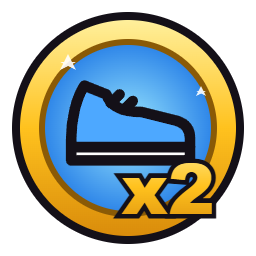
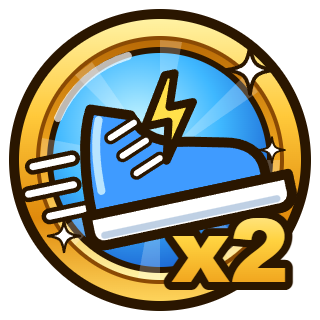
Shop: game passes with detailed coin badges and burst cards
New pass badges: a bevelled gold coin, coloured inner disc with rays, a big
detailed object breaking out (sneaker with bolt, banded cash stack, clover,
jewelled crown), sparkles and a gold x2. Cards get a colour wash with rays
behind the badge, a bold shadowed title, a two-line description and a lime
price button; VIP is a rainbow card. Sources: assets/ui/pass-badges-src.html
and pass-cards-src.html.

diff --git a/assets/ui/pass-badges-src.html b/assets/ui/pass-badges-src.html
@@ -1,0 +1,117 @@
+<!doctype html>
+<html><head><meta charset="utf-8"><title>Game pass badges</title>
+<!-- Source for the game-pass badges (assets/ui/Pass*.png, 320 px). Render one with ?i=<Name>.
+     Style from Steal An Egg / Break and Steal an Egg: thick bevelled gold coin, coloured inner disc with rays,
+     a big detailed object breaking out of the coin, white sparkles and a gold "x2" with a heavy outline. -->
+<style>
+html,body{margin:0;background:transparent}
+body.sheet{display:flex;flex-wrap:wrap;gap:20px;padding:20px;background:#2F2F36}
+svg{display:block}
+body.one svg:not(.defs){display:none}
+body.one svg.show{display:block}
+</style></head>
+<body class="sheet">
+<svg class="defs" width="0" height="0" style="position:absolute">
+<defs>
+<linearGradient id="rim" x1="0" y1="0" x2="0" y2="1"><stop offset="0" stop-color="#FFF4A8"/><stop offset=".35" stop-color="#FFC93A"/><stop offset=".7" stop-color="#E08A0C"/><stop offset="1" stop-color="#FFD860"/></linearGradient>
+<linearGradient id="rimIn" x1="0" y1="1" x2="0" y2="0"><stop offset="0" stop-color="#FFF4A8"/><stop offset=".5" stop-color="#F2A81E"/><stop offset="1" stop-color="#B86A06"/></linearGradient>
+<linearGradient id="goldText" x1="0" y1="0" x2="0" y2="1"><stop offset="0" stop-color="#FFFBD0"/><stop offset=".45" stop-color="#FFD23F"/><stop offset="1" stop-color="#E88A0A"/></linearGradient>
+<radialGradient id="dSpeed" cx=".4" cy=".35" r=".75"><stop offset="0" stop-color="#C8F6FF"/><stop offset=".5" stop-color="#3FB8FF"/><stop offset="1" stop-color="#1250C8"/></radialGradient>
+<radialGradient id="dCash" cx=".4" cy=".35" r=".75"><stop offset="0" stop-color="#E9FFB8"/><stop offset=".5" stop-color="#4CD64A"/><stop offset="1" stop-color="#127A2A"/></radialGradient>
+<radialGradient id="dLuck" cx=".4" cy=".35" r=".75"><stop offset="0" stop-color="#FFF6C0"/><stop offset=".5" stop-color="#FFB63A"/><stop offset="1" stop-color="#D0560A"/></radialGradient>
+<radialGradient id="dVip" cx=".4" cy=".35" r=".75"><stop offset="0" stop-color="#F4D6FF"/><stop offset=".5" stop-color="#B05CFF"/><stop offset="1" stop-color="#5418B8"/></radialGradient>
+<g id="raysA"><path d="M160 160 L160 40 L182 42 Z M160 160 L245 75 L258 92 Z M160 160 L280 160 L278 182 Z M160 160 L245 245 L228 258 Z M160 160 L160 280 L138 278 Z M160 160 L75 245 L62 228 Z M160 160 L40 160 L42 138 Z M160 160 L75 75 L92 62 Z" fill="#FFFFFF" opacity=".22"/></g>
+<g id="spark"><path d="M0 -16C1.6 -4 4 -1.6 16 0C4 1.6 1.6 4 0 16C-1.6 4 -4 1.6 -16 0C-4 -1.6 -1.6 -4 0 -16Z" fill="#FFFFFF" stroke="#2A1600" stroke-width="2.5" stroke-linejoin="round"/></g>
+</defs>
+</svg>
+
+<!-- coin shell used by every badge: disc fill id passed via the <use> wrapper below -->
+
+<svg data-name="PassSpeed" width="320" height="320" viewBox="0 0 320 320" xmlns="http://www.w3.org/2000/svg">
+<circle cx="160" cy="160" r="146" fill="url(#rim)" stroke="#2A1600" stroke-width="10"/>
+<circle cx="160" cy="160" r="122" fill="url(#rimIn)" stroke="#8A4A04" stroke-width="4"/>
+<circle cx="160" cy="160" r="110" fill="url(#dSpeed)" stroke="#2A1600" stroke-width="6"/>
+<use href="#raysA"/>
+<path d="M58 118a110 110 0 0 1 70-62" fill="none" stroke="#FFFFFF" stroke-width="8" stroke-linecap="round" opacity=".7"/>
+<g transform="translate(150 150) rotate(-12)">
+<path d="M-118 -8h40M-128 18h46M-112 44h36" stroke="#2A1600" stroke-width="16" stroke-linecap="round"/>
+<path d="M-118 -8h40M-128 18h46M-112 44h36" stroke="#FFFFFF" stroke-width="7" stroke-linecap="round"/>
+<path d="M-70 52c0-36 6-80 20-104l38 14c8 26 26 34 52 38l34 8c20 4 34 16 34 34v10H-70z" fill="#3F9BFF" stroke="#2A1600" stroke-width="10" stroke-linejoin="round"/>
+<path d="M-56 30c0-26 4-52 12-70" fill="none" stroke="#B8E4FF" stroke-width="8" stroke-linecap="round"/>
+<path d="M-36 -20l26-10M-28 0l26-10M-18 20l26-10" stroke="#2A1600" stroke-width="13" stroke-linecap="round"/>
+<path d="M-36 -20l26-10M-28 0l26-10M-18 20l26-10" stroke="#FFFFFF" stroke-width="6" stroke-linecap="round"/>
+<path d="M-76 52h206v18a14 14 0 0 1-14 14H-62a14 14 0 0 1-14-14z" fill="#FFFFFF" stroke="#2A1600" stroke-width="10" stroke-linejoin="round"/>
+<path d="M-62 74h176" stroke="#BFD0E4" stroke-width="7" stroke-linecap="round"/>
+<path d="M30 -70l-30 46h24l-10 38 38-52H28l12-32z" fill="#FFE04A" stroke="#2A1600" stroke-width="8" stroke-linejoin="round"/>
+</g>
+<use href="#spark" transform="translate(250 70) scale(1.5)"/><use href="#spark" transform="translate(64 236)"/><use href="#spark" transform="translate(272 150) scale(.8)"/>
+<text x="230" y="282" text-anchor="middle" font-family="Arial Black,Arial,sans-serif" font-weight="900" font-size="88" fill="url(#goldText)" stroke="#2A1600" stroke-width="16" paint-order="stroke" stroke-linejoin="round">x2</text>
+</svg>
+
+<svg data-name="PassCash" width="320" height="320" viewBox="0 0 320 320" xmlns="http://www.w3.org/2000/svg">
+<circle cx="160" cy="160" r="146" fill="url(#rim)" stroke="#2A1600" stroke-width="10"/>
+<circle cx="160" cy="160" r="122" fill="url(#rimIn)" stroke="#8A4A04" stroke-width="4"/>
+<circle cx="160" cy="160" r="110" fill="url(#dCash)" stroke="#2A1600" stroke-width="6"/>
+<use href="#raysA"/>
+<path d="M58 118a110 110 0 0 1 70-62" fill="none" stroke="#FFFFFF" stroke-width="8" stroke-linecap="round" opacity=".7"/>
+<g transform="translate(160 150) rotate(-14)" stroke="#2A1600" stroke-linejoin="round">
+<rect x="-104" y="18" width="200" height="62" rx="10" fill="#1F8A30" stroke-width="10"/>
+<rect x="-100" y="-14" width="200" height="62" rx="10" fill="#2EAA3A" stroke-width="10"/>
+<rect x="-96" y="-48" width="200" height="66" rx="10" fill="#5FDE5A" stroke-width="10"/>
+<rect x="-84" y="-38" width="176" height="46" rx="6" fill="none" stroke="#2E9B3A" stroke-width="5"/>
+<circle cx="40" cy="-15" r="19" fill="#2E9B3A" stroke="#1C6E26" stroke-width="4"/>
+<text x="40" y="-3" text-anchor="middle" font-family="Arial Black,Arial,sans-serif" font-weight="900" font-size="34" fill="#C8FFB0" stroke="none">$</text>
+<rect x="-34" y="-58" width="34" height="146" rx="6" fill="#FFD23F" stroke-width="9"/>
+<path d="M-26 -48v40" stroke="#FFFFFF" stroke-width="6" stroke-linecap="round" opacity=".85"/>
+<path d="M6 -40h70" stroke="#FFFFFF" stroke-width="6" stroke-linecap="round" opacity=".6"/>
+</g>
+<use href="#spark" transform="translate(252 66) scale(1.5)"/><use href="#spark" transform="translate(70 92)"/><use href="#spark" transform="translate(276 170) scale(.8)"/>
+<text x="230" y="282" text-anchor="middle" font-family="Arial Black,Arial,sans-serif" font-weight="900" font-size="88" fill="url(#goldText)" stroke="#2A1600" stroke-width="16" paint-order="stroke" stroke-linejoin="round">x2</text>
+</svg>
+
+<svg data-name="PassLuck" width="320" height="320" viewBox="0 0 320 320" xmlns="http://www.w3.org/2000/svg">
+<circle cx="160" cy="160" r="146" fill="url(#rim)" stroke="#2A1600" stroke-width="10"/>
+<circle cx="160" cy="160" r="122" fill="url(#rimIn)" stroke="#8A4A04" stroke-width="4"/>
+<circle cx="160" cy="160" r="110" fill="url(#dLuck)" stroke="#2A1600" stroke-width="6"/>
+<use href="#raysA"/>
+<path d="M58 118a110 110 0 0 1 70-62" fill="none" stroke="#FFFFFF" stroke-width="8" stroke-linecap="round" opacity=".7"/>
+<g transform="translate(150 140) rotate(-10)" stroke="#2A1600" stroke-linejoin="round">
+<path d="M6 30c10 36 22 56 40 70" fill="none" stroke-width="20" stroke-linecap="round"/>
+<path d="M6 30c10 36 22 56 40 70" fill="none" stroke="#2EA82A" stroke-width="9" stroke-linecap="round"/>
+<g stroke-width="10">
+<path d="M0 0C-10 -50 -70 -62 -66 -20C-64 0 -30 6 0 0Z" fill="#52D44A"/>
+<path d="M0 0C50 -10 62 -70 20 -66C0 -64 -6 -30 0 0Z" fill="#52D44A"/>
+<path d="M0 0C10 50 70 62 66 20C64 0 30 -6 0 0Z" fill="#3CBC3A"/>
+<path d="M0 0C-50 10 -62 70 -20 66C0 64 6 30 0 0Z" fill="#3CBC3A"/>
+</g>
+<circle cx="0" cy="0" r="12" fill="#2A9A2A" stroke-width="6"/>
+<path d="M-50 -34c4-10 12-16 22-18M30 -52c8 2 14 8 16 16" fill="none" stroke="#C8FFB0" stroke-width="7" stroke-linecap="round"/>
+</g>
+<use href="#spark" transform="translate(256 70) scale(1.6)"/><use href="#spark" transform="translate(62 220)"/><use href="#spark" transform="translate(230 150) scale(.8)"/><use href="#spark" transform="translate(96 60) scale(.7)"/>
+<text x="230" y="282" text-anchor="middle" font-family="Arial Black,Arial,sans-serif" font-weight="900" font-size="88" fill="url(#goldText)" stroke="#2A1600" stroke-width="16" paint-order="stroke" stroke-linejoin="round">x2</text>
+</svg>
+
+<svg data-name="PassVIP" width="320" height="320" viewBox="0 0 320 320" xmlns="http://www.w3.org/2000/svg">
+<circle cx="160" cy="160" r="146" fill="url(#rim)" stroke="#2A1600" stroke-width="10"/>
+<circle cx="160" cy="160" r="122" fill="url(#rimIn)" stroke="#8A4A04" stroke-width="4"/>
+<circle cx="160" cy="160" r="110" fill="url(#dVip)" stroke="#2A1600" stroke-width="6"/>
+<use href="#raysA"/>
+<path d="M58 118a110 110 0 0 1 70-62" fill="none" stroke="#FFFFFF" stroke-width="8" stroke-linecap="round" opacity=".7"/>
+<g transform="translate(160 140)" stroke="#2A1600" stroke-linejoin="round">
+<path d="M-96 54L-110 -50L-54 -4L0 -76L54 -4L110 -50L96 54Z" fill="url(#goldText)" stroke-width="11"/>
+<path d="M-96 54h192v26H-96z" fill="#F2A81E" stroke-width="10"/>
+<circle cx="-110" cy="-50" r="11" fill="#FFE04A" stroke-width="6"/><circle cx="0" cy="-76" r="12" fill="#FFE04A" stroke-width="6"/><circle cx="110" cy="-50" r="11" fill="#FFE04A" stroke-width="6"/>
+<path d="M-20 20l20-24 20 24-20 24z" fill="#E8202E" stroke-width="6"/>
+<circle cx="-56" cy="28" r="10" fill="#3DA5FF" stroke-width="5"/><circle cx="56" cy="28" r="10" fill="#3ED83A" stroke-width="5"/>
+<path d="M-80 40l-8-60M-30 -14L0 -56" fill="none" stroke="#FFFFFF" stroke-width="6" stroke-linecap="round" opacity=".8"/>
+<circle cx="-62" cy="67" r="5" fill="#FFF4A8" stroke="none"/><circle cx="0" cy="67" r="5" fill="#FFF4A8" stroke="none"/><circle cx="62" cy="67" r="5" fill="#FFF4A8" stroke="none"/>
+</g>
+<use href="#spark" transform="translate(262 78) scale(1.5)"/><use href="#spark" transform="translate(60 92) scale(1.1)"/><use href="#spark" transform="translate(268 200) scale(.8)"/>
+<text x="160" y="290" text-anchor="middle" font-family="Arial Black,Arial,sans-serif" font-weight="900" font-size="72" fill="url(#goldText)" stroke="#2A1600" stroke-width="15" paint-order="stroke" stroke-linejoin="round">VIP</text>
+</svg>
+
+<script>
+const k = new URLSearchParams(location.search).get('i');
+if (k) { document.body.className = 'one'; const s = document.querySelector('svg[data-name="' + k + '"]'); if (s) s.classList.add('show'); }
+</script>
+</body></html>

diff --git a/assets/ui/pass-cards-src.html b/assets/ui/pass-cards-src.html
@@ -1,0 +1,24 @@
+<!doctype html><html><head><meta charset="utf-8"><title>Pass card backgrounds</title>
+<!-- Backgrounds for the Game Pass cards (assets/ui/PassCard_<Name>.png, 700x380 = 2x the 350x190 card).
+     Diagonal colour wash, a bright spot and rays behind the badge (left), a soft sheen; VIP is a rainbow. -->
+<style>html,body{margin:0;overflow:hidden;background:#000}canvas{display:block}</style></head><body>
+<canvas id="c" width="700" height="380"></canvas><script>
+const k=new URLSearchParams(location.search).get('i')||'Speed';
+const C={Speed:['#7FE6FF','#2C9BF0','#1450C8'],Cash:['#FFF08A','#FFC23A','#F08A10'],Luck:['#D6FF8A','#62D63A','#1F9A2A'],VIP:null}[k];
+const g=document.getElementById('c').getContext('2d'),W=700,H=380;
+let gr=g.createLinearGradient(0,0,W,H);
+if(C){gr.addColorStop(0,C[0]);gr.addColorStop(.5,C[1]);gr.addColorStop(1,C[2])}
+else{['#FF5AA8','#FFB23A','#FFF06A','#5BE36A','#3DD0FF','#9B6BFF'].forEach((c,i,a)=>gr.addColorStop(i/(a.length-1),c))}
+g.fillStyle=gr;g.fillRect(0,0,W,H);
+// bright spot + rays behind the badge
+const bx=150,by=180;
+const sp=g.createRadialGradient(bx,by,0,bx,by,260);sp.addColorStop(0,'rgba(255,255,255,.75)');sp.addColorStop(.35,'rgba(255,255,255,.25)');sp.addColorStop(1,'rgba(255,255,255,0)');g.fillStyle=sp;g.fillRect(0,0,W,H);
+g.save();g.translate(bx,by);for(let i=0;i<18;i++){g.rotate(Math.PI*2/18);const rg=g.createLinearGradient(0,0,520,0);rg.addColorStop(0,'rgba(255,255,255,.35)');rg.addColorStop(1,'rgba(255,255,255,0)');g.fillStyle=rg;g.beginPath();g.moveTo(0,0);g.lineTo(520,-34);g.lineTo(520,34);g.closePath();g.fill()}g.restore();
+// soft diagonal sheen across the top-right
+g.save();g.globalAlpha=.18;g.fillStyle='#FFFFFF';g.beginPath();g.moveTo(420,0);g.lineTo(520,0);g.lineTo(380,H);g.lineTo(280,H);g.fill();g.globalAlpha=.1;g.beginPath();g.moveTo(560,0);g.lineTo(590,0);g.lineTo(450,H);g.lineTo(420,H);g.fill();g.restore();
+// darker bottom edge so the price row sits on something
+const bt=g.createLinearGradient(0,H*.55,0,H);bt.addColorStop(0,'rgba(0,0,0,0)');bt.addColorStop(1,'rgba(0,0,0,.25)');g.fillStyle=bt;g.fillRect(0,0,W,H);
+// tiny sparkles
+for(let i=0;i<14;i++){const x=320+Math.random()*360,y=Math.random()*H,s=Math.random()*2.5+1;g.fillStyle='rgba(255,255,255,'+(Math.random()*.5+.3)+')';g.beginPath();g.arc(x,y,s,0,7);g.fill()}
+document.title='done';
+</script></body></html>
